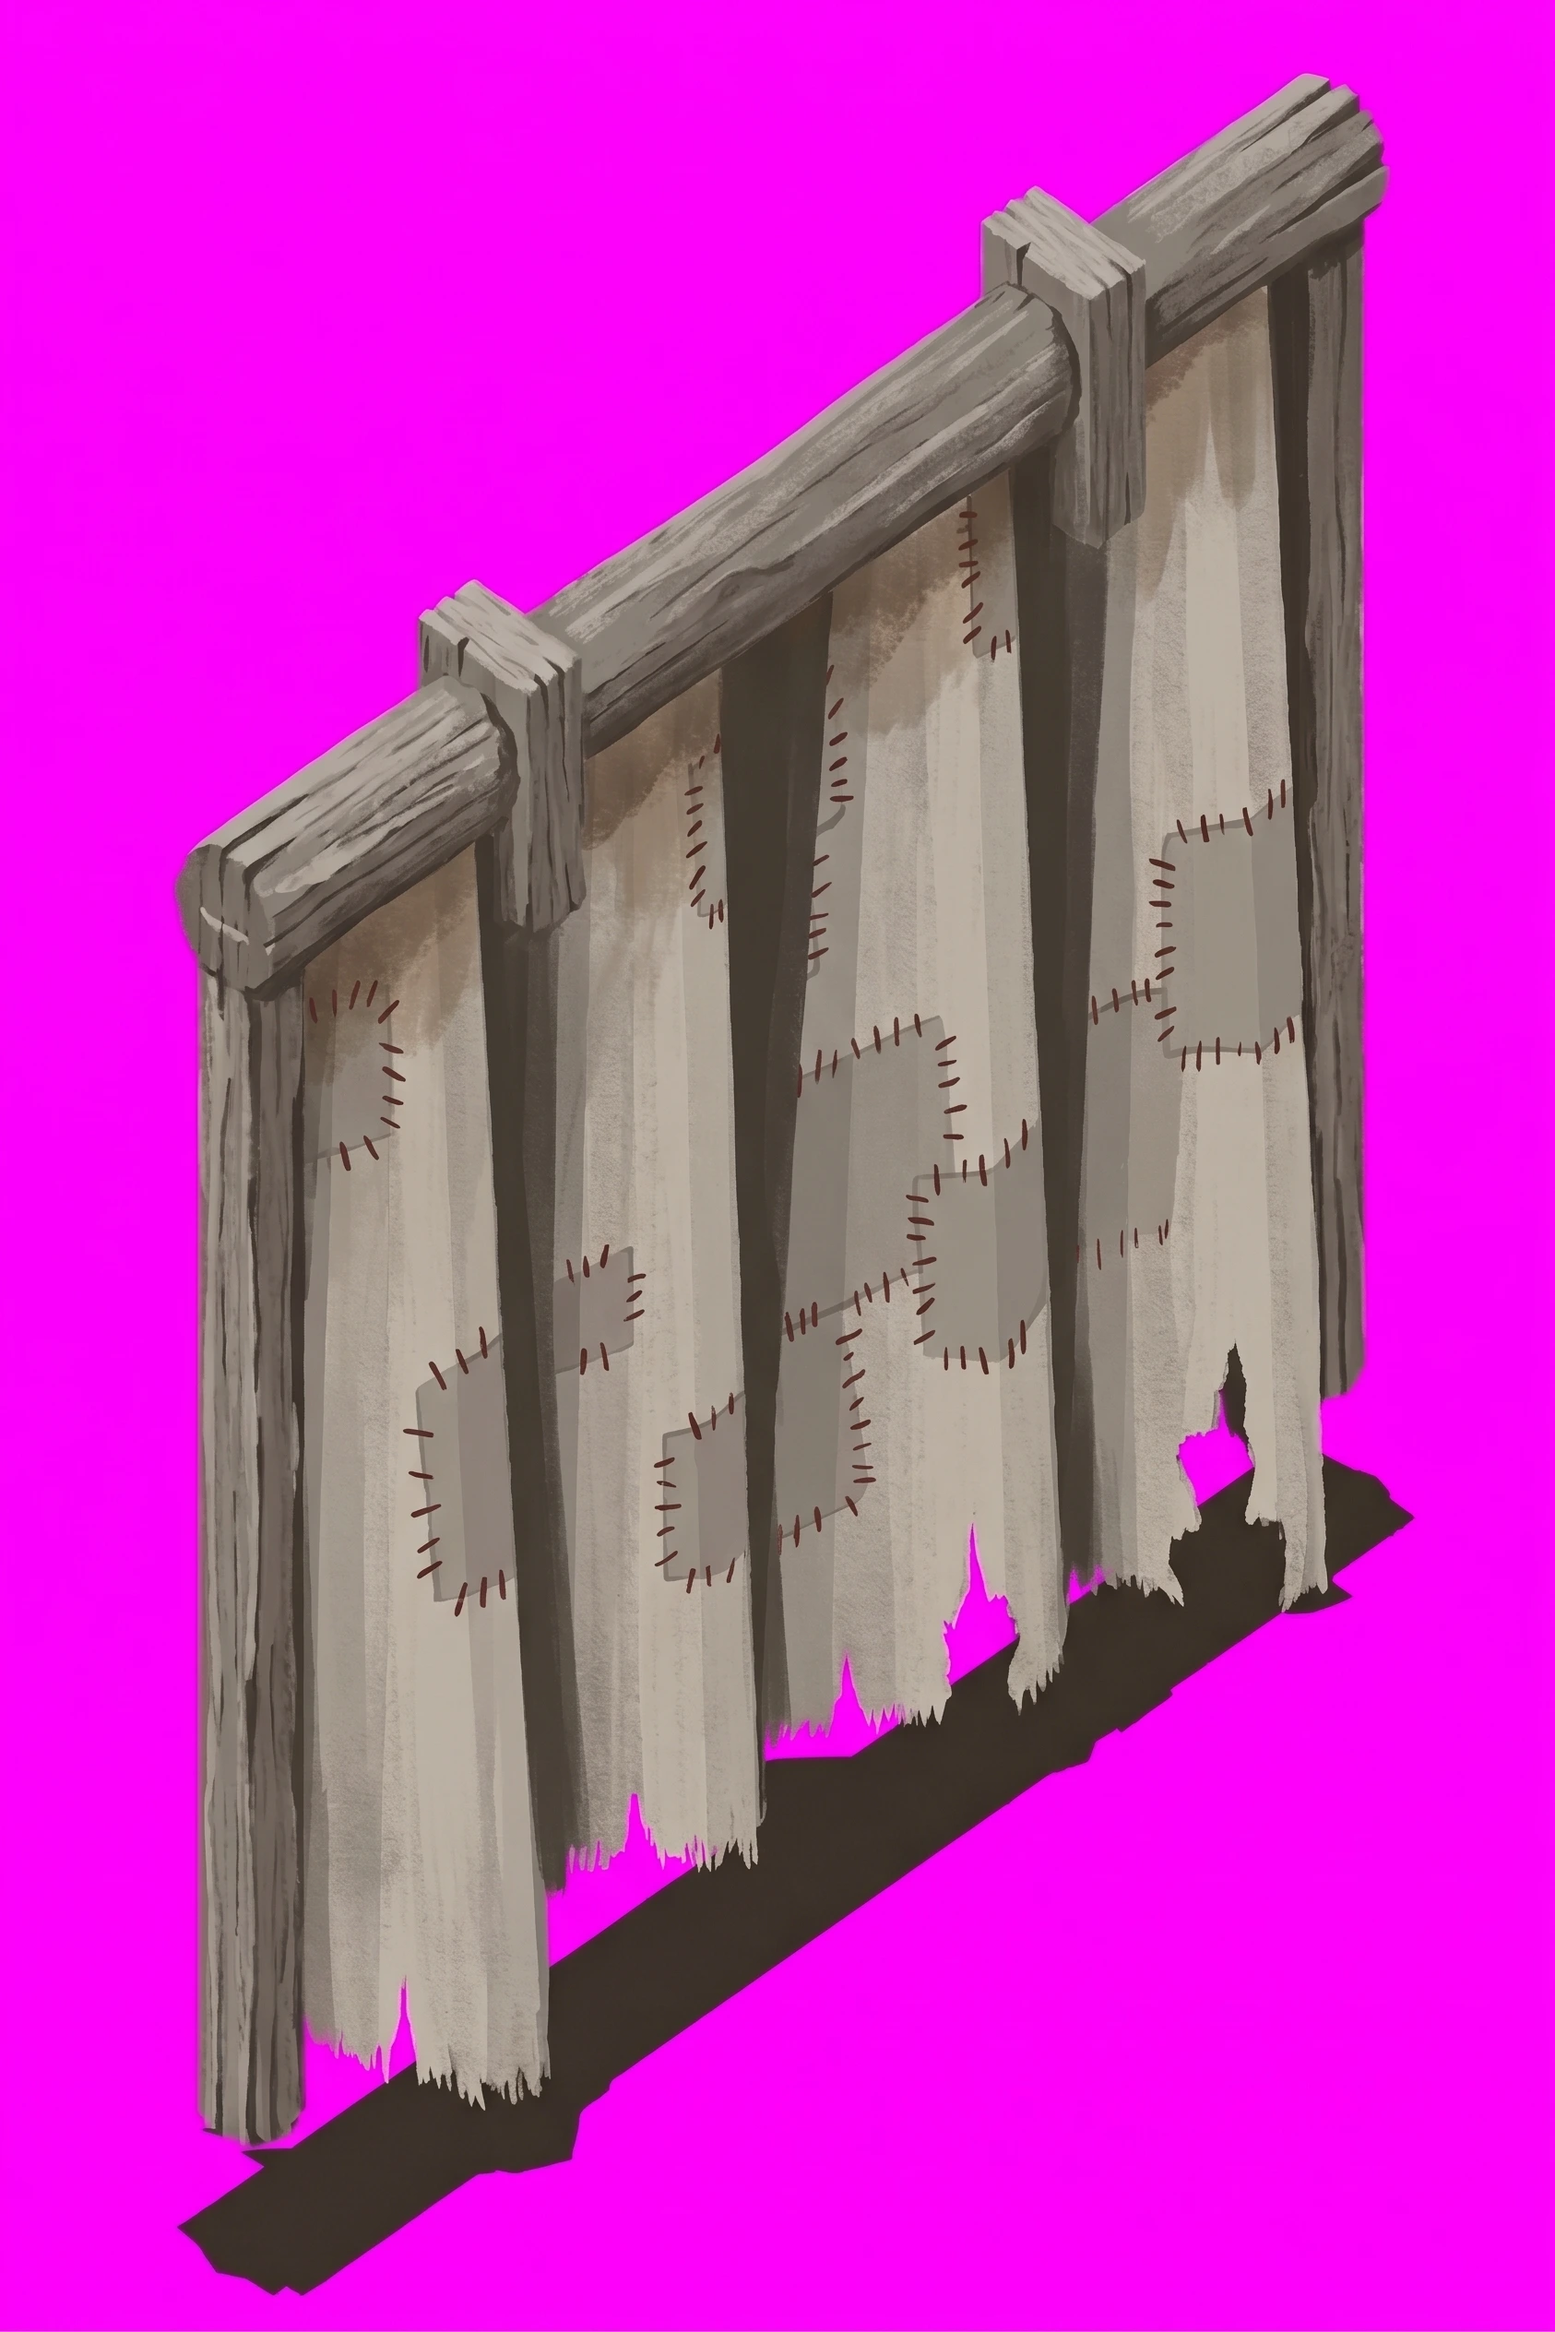
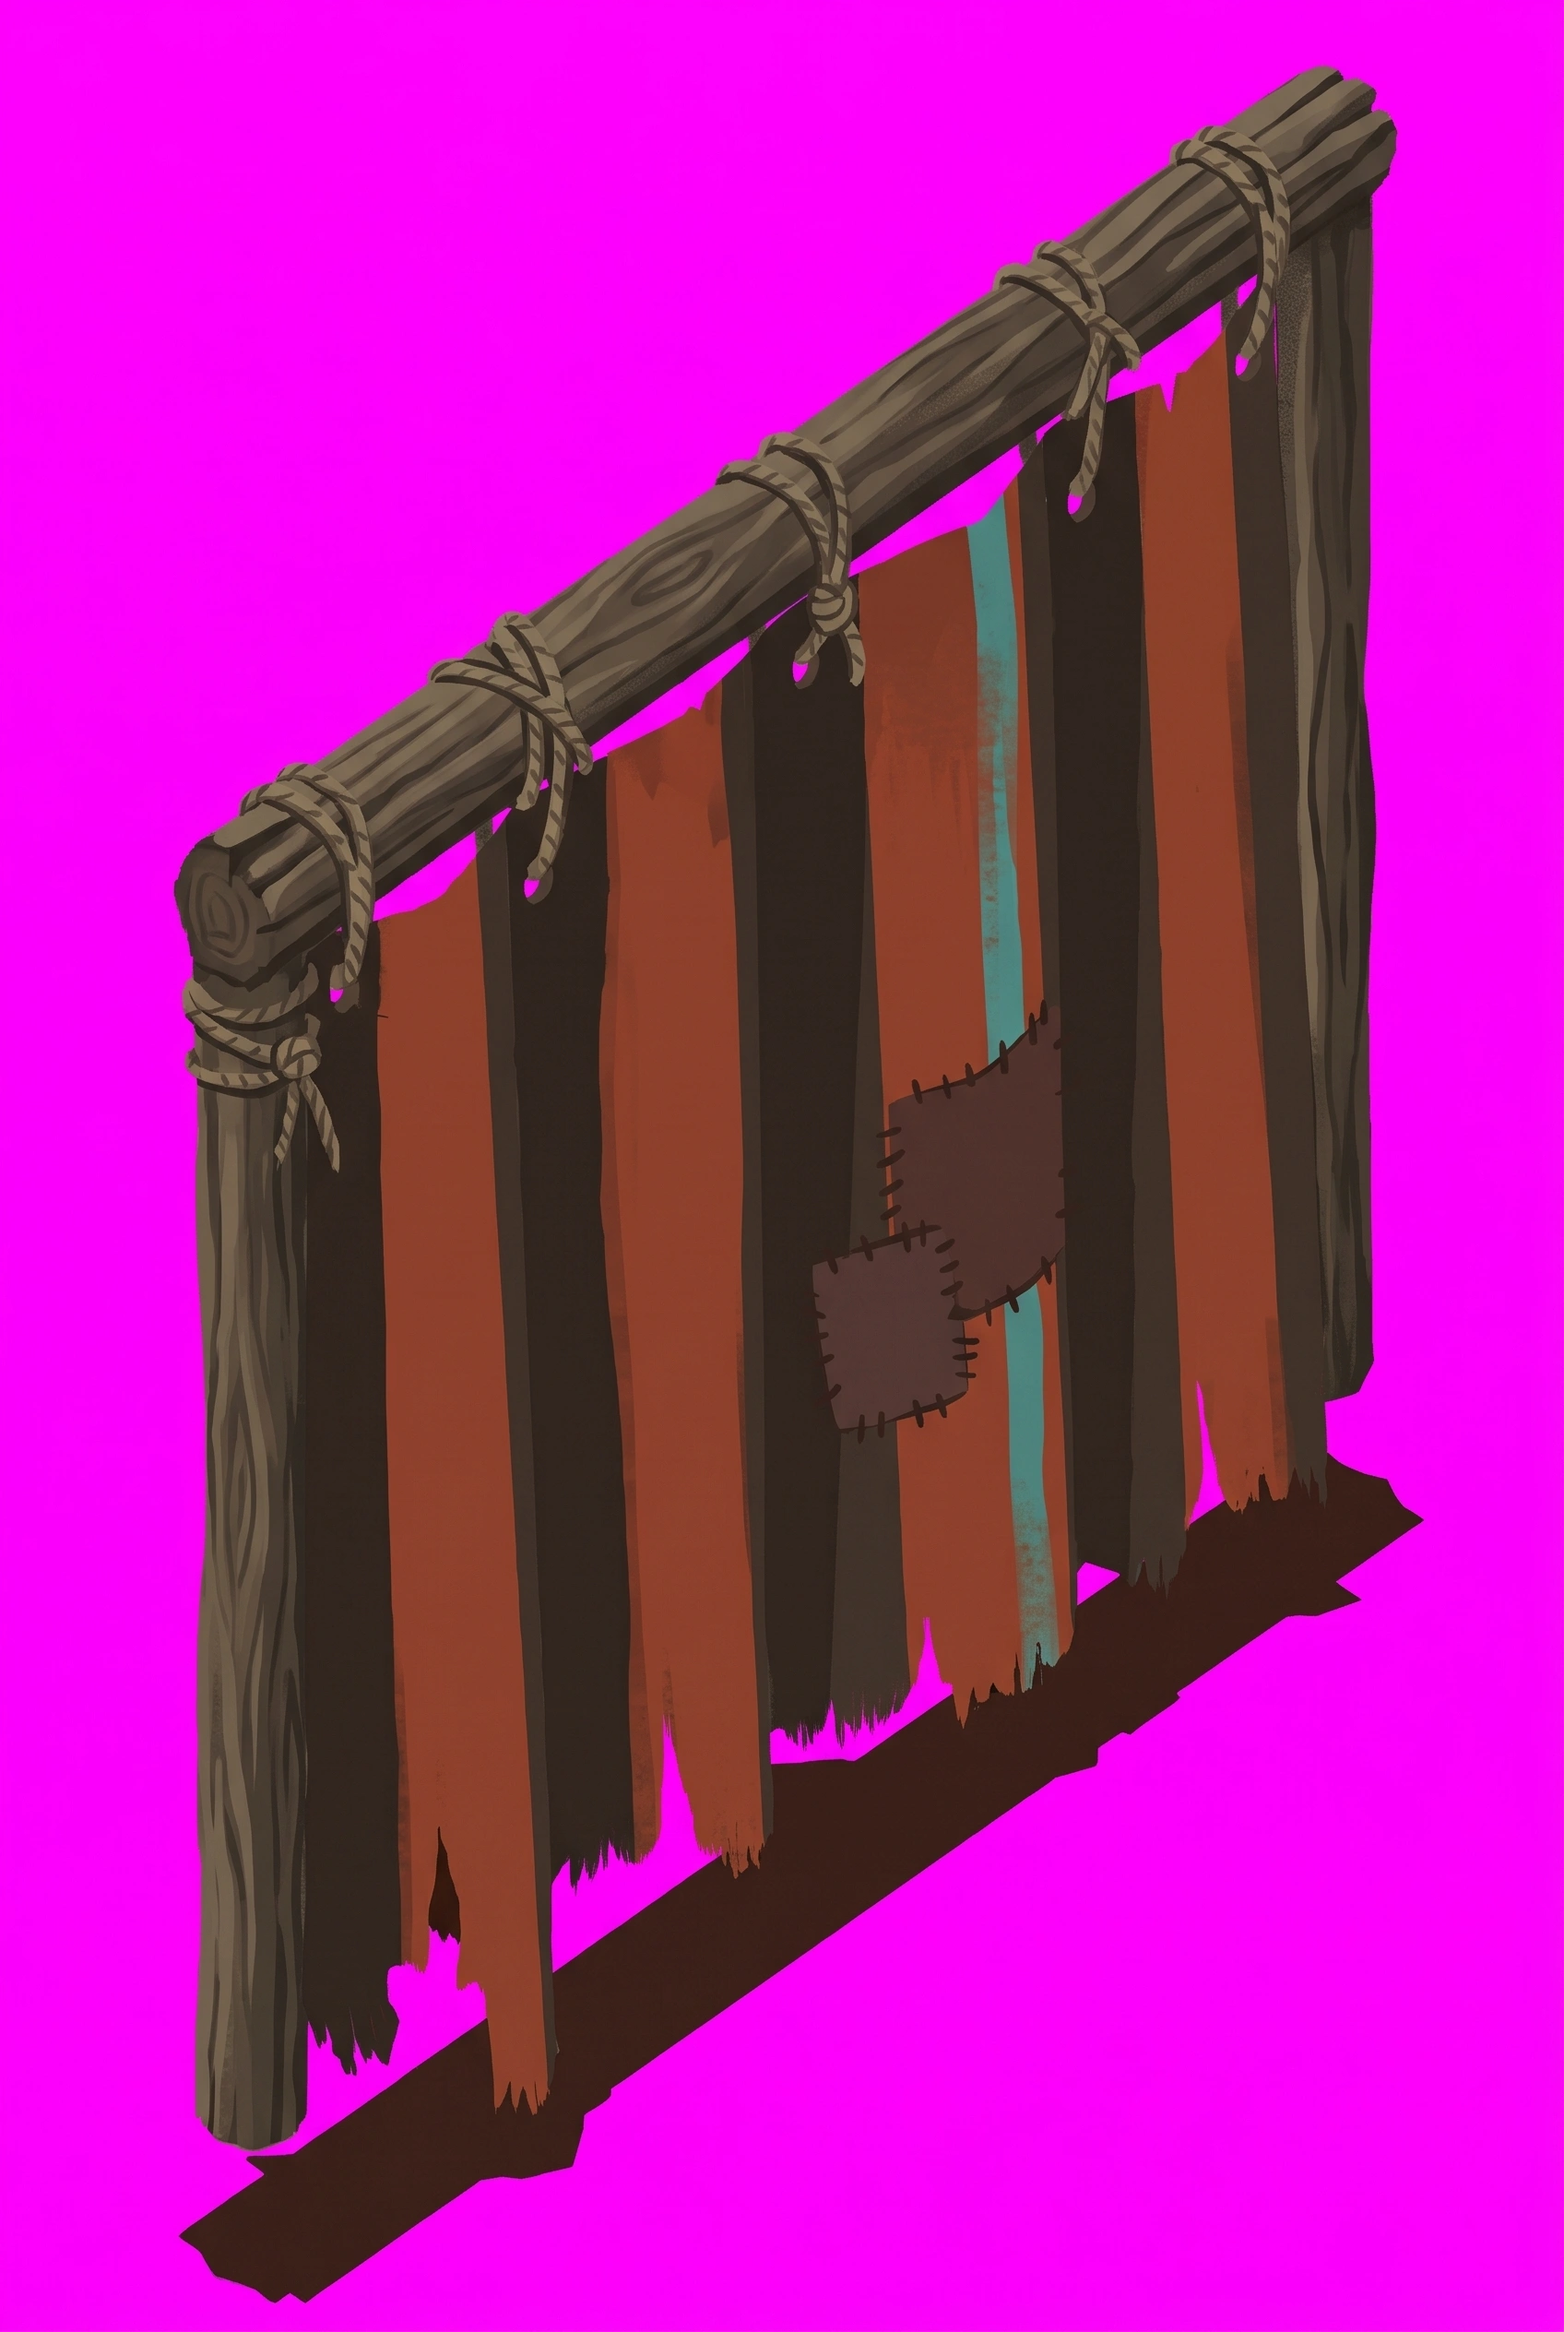
feat: starter's awning repainted, red ochre and umber stripes on a timber pole
Claude-Session: https://claude.ai/code/session_01NQk9Q1WZoZfDzoRioyXby1

diff --git a/docs/instructions/repaint-queue.md b/docs/instructions/repaint-queue.md
@@ -193,47 +193,6 @@ the shabti is `--mesh=art/masters/meshes/shabti.glb`. `starter-plain.png` is the
 `art/masters/surfaces/starter-floor.webp` scaled to 1024, the crop every `<tier>-plain.png` is. The
 tally board has no scaffold: it attaches its own master.
 
-### `starter/hanging` — a striped awning cloth on a timber pole
-
-**Attach:**
-
-1. `~/tile-previews/hanging-starter.png` — the scaffold
-2. `~/tile-previews/starter-plain.png` — the material reference
-
-```
-A wall-less product shot of a single object, painted in flat matte gouache, no background, on pure magenta #FF00FF. Portrait, two units wide by three tall, exactly as the reference. Do not re-compose it into a square. Paint over the reference image itself.
-
-The object: an AWNING CLOTH slung from a pole. The long bar across the top is the POLE; the two uprights
-under its ends are the POSTS; the sheet hanging from the pole in folds is the CLOTH, its hem ragged and
-one corner torn away.
-
-The cloth is heavy linen DYED, never bleached or cream: broad vertical STRIPES of red ochre #b8452c and
-deep umber #5e3a1e, with a narrow turquoise #2a9d8f stripe between every few, the stripes following the
-folds. Faded a little at the top where sun has caught it, darker in every fold's hollow, mended in two
-places with a patch of plain umber cloth. The pole and posts are dark timber #5e3a1e, lashed with cord
-where the cloth is tied.
-
-IT STANDS ON A PALE FLOOR AND MUST READ DARK ON IT. The floor is pale limestone, #d8c8a8. The object as a
-whole is clearly DARKER and more colourful than that: nothing on it larger than a fingertip is lighter
-than terracotta #c0612f, and only the turquoise #2a9d8f may be, in small touches. Its base, its underside
-and every part nearest the floor are its darkest, deep umber #3a2a1c. Nothing on it is white, cream,
-bleached, pale straw or whitewash — a pale part vanishes into the floor.
-
-Keep every edge, every proportion and every silhouette exactly as in the reference image — do not move, resize, straighten, add, remove or restyle any part of it, and do not change the angle it stands at. Paint only material and wear.
-
-The shadow at its foot is part of the picture: paint it #3A2A1C, with no pink and no purple in it at all.
-
-No highlights, no gloss, no rim light, no ground plane, no reflections. Matte throughout, as if lit by one dull lamp. Merchant's storehouse: fired terracotta #c0612f and #7e3a1a, honey-brown timber #9a6a3c and #5e3a1e, red ochre paint #b8452c, turquoise faience #2a9d8f. Saturated and warm — colour that reads from across the room — and never as pale as the floor it stands on.
-```
-
-Then, once the return is in `~/Downloads`:
-
-```sh
-scaffold hanging --spin=45
-yarn import-tile art/masters/props/starter/hanging.webp --tier=starter --name=hanging --slot=prop \
-  --filter=smooth --mask="$OBJ" --seat="$SHADOW"
-```
-
 ### `starter/brazier` — a terracotta brazier on a dark tripod
 
 **Attach:**
